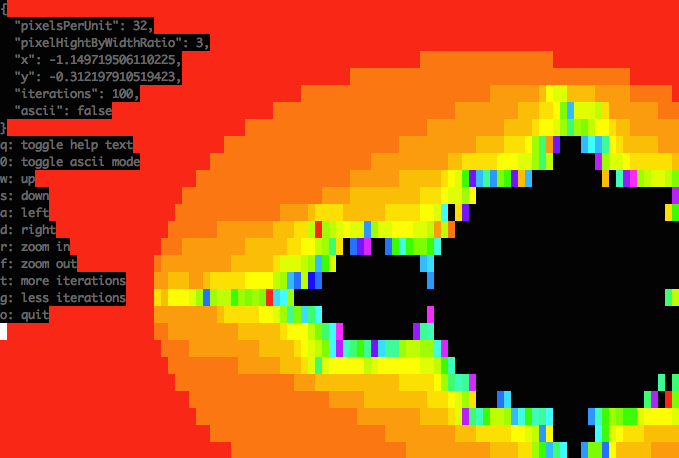
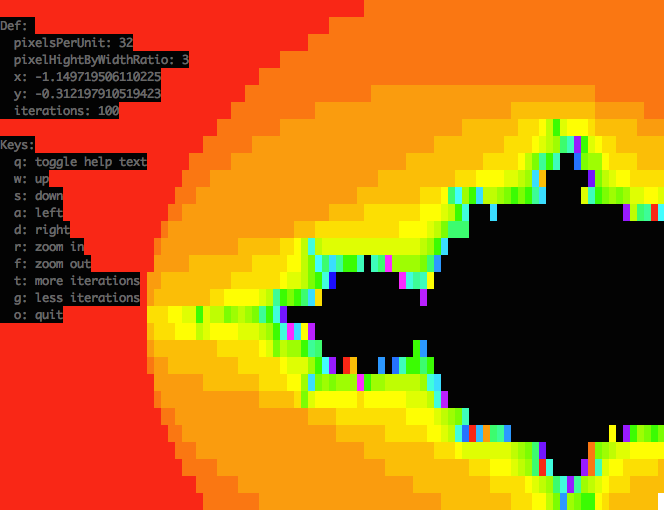
Update readme and example image

diff --git a/README.md b/README.md
@@ -6,29 +6,46 @@
 [![Dependency Status](https://david-dm.org/danyshaanan/cli-mandelbrot.svg)](https://david-dm.org/danyshaanan/cli-mandelbrot)
 [![devDependency Status](https://david-dm.org/danyshaanan/cli-mandelbrot/dev-status.svg)](https://david-dm.org/danyshaanan/cli-mandelbrot#info=devDependencies)
 
-#### A command line tool for viewing and moving inside the [Mandelbrot set](http://en.wikipedia.org/wiki/Mandelbrot_set).
+#### View the [Mandelbrot set](http://en.wikipedia.org/wiki/Mandelbrot_set) from your terminal
 
 * * *
+
 ### Installation
+
 ```bash
-$ npm install -g cli-mandelbrot
+npm install -g cli-mandelbrot
 ```
 
 * * *
+
 ### Usage
 
-This package has no flags or options. Just type `cli-mandelbrot` and you are in:
+```bash
+cli-mandelbrot
+```
 
 ![Example screen shot](https://raw.github.com/danyshaanan/cli-mandelbrot/master/doc/example1.png?raw=true)
 
 Use the 'wasd' keys to move around, 'r' and 'f' to zoom in and out, 't' and 'f' to calculate more or less iterations, 'q' to toggle the help text, and 'o' to quit.
 
-* * *
-
 ![Example screen shot](https://raw.github.com/danyshaanan/cli-mandelbrot/master/doc/example2.png?raw=true)
 
 * * *
+
+### Development
+
+```bash
+nvm use 6 # or nvm install 6
+git clone git@github.com:danyshaanan/cli-mandelbrot.git
+cd cli-mandelbrot
+npm i
+npm test
+```
+
+* * *
+
 ### Feedback
+
 * If you enjoyed this package, please star it [on Github](https://github.com/danyshaanan/cli-mandelbrot).
 * You are invited to [Open an issue on Github](https://github.com/danyshaanan/cli-mandelbrot/issues).
 * For other matters, my email address can be found on my [NpmJS page](https://www.npmjs.org/~danyshaanan), my [Github page](https://github.com/danyshaanan), or my [website](http://danyshaanan.com/).
